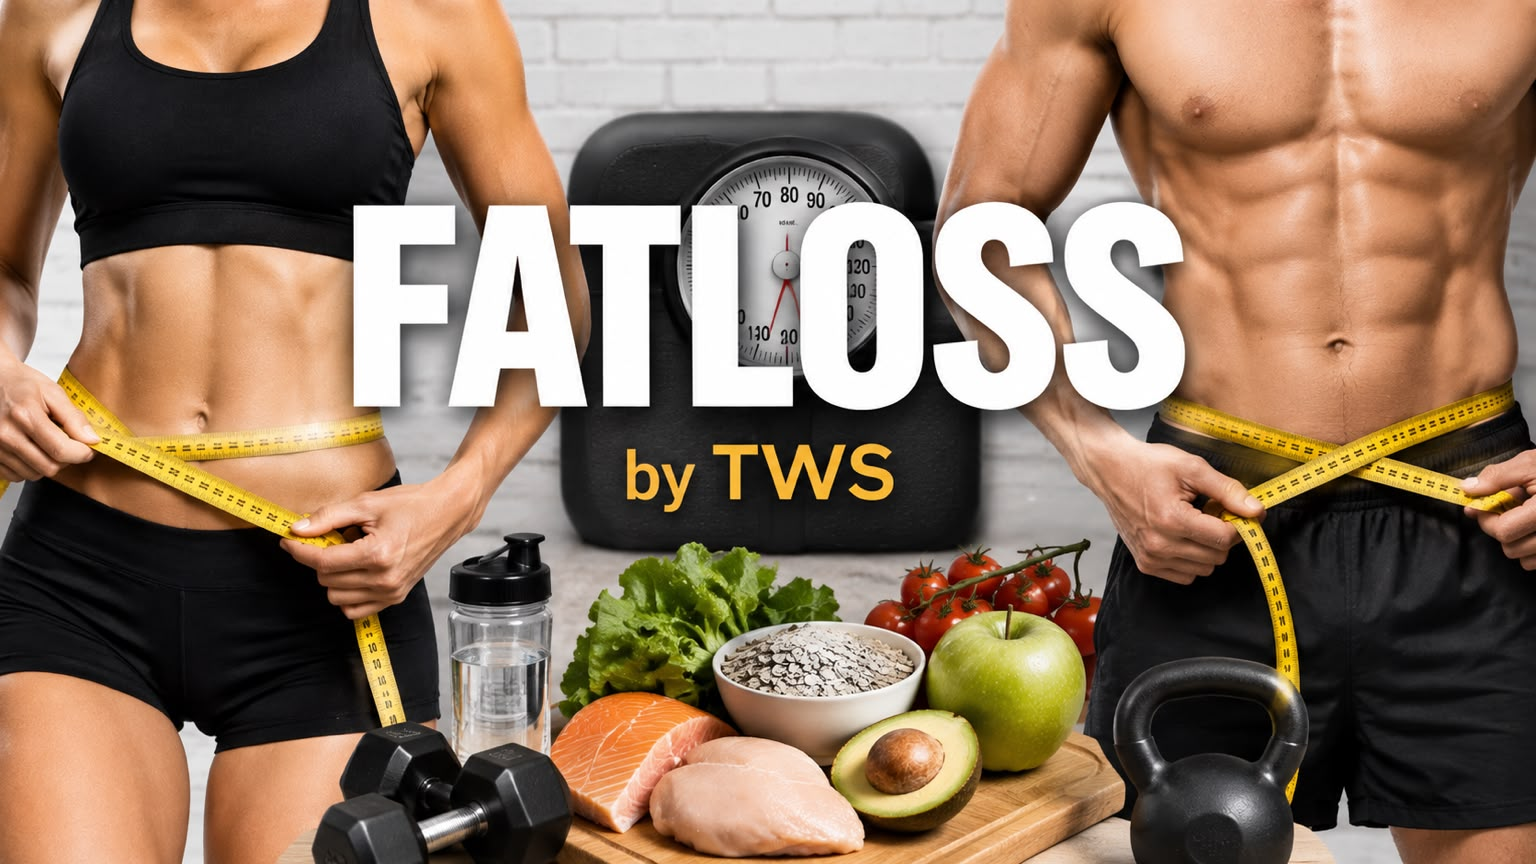
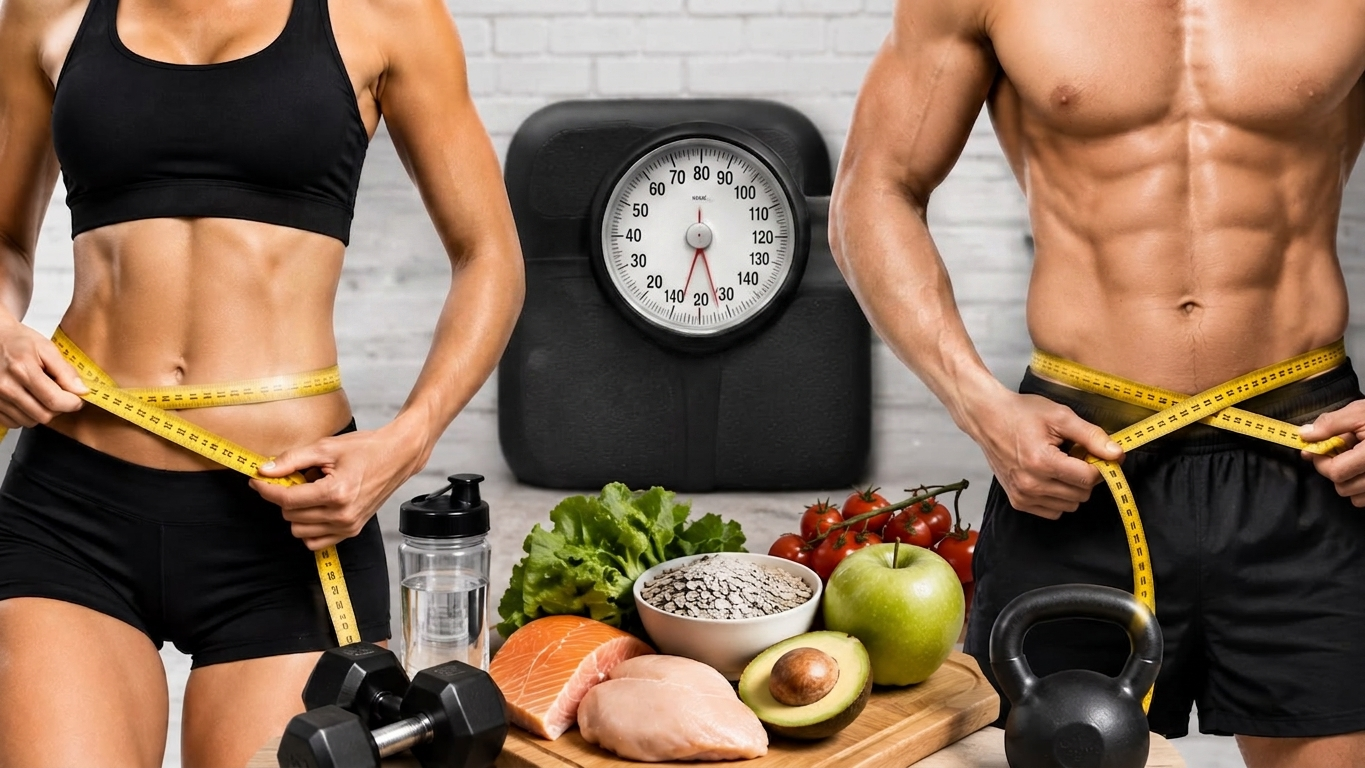
Update TWS Website Images

diff --git a/app/globals.css b/app/globals.css
@@ -6,12 +6,30 @@
 .hero-hook-line{display:block}
 .hero-hook-line-one{font-family:'Playfair Display',serif;font-weight:700;color:var(--navy);font-size:clamp(62px,6vw,90px)}
 .hero-hook-line-two{font-family:'Playfair Display',serif;font-style:italic;font-weight:600;color:#c88c20;font-size:clamp(68px,6.5vw,98px);text-shadow:1px 3px 0 rgba(19,37,59,.08)}
+.about-heading{margin-bottom:60px}.about-profiles{display:grid;grid-template-columns:repeat(2,1fr);gap:55px;max-width:980px;margin:0 auto}.about-profile{text-align:center}.about-profile img{display:block;width:min(100%,360px);aspect-ratio:1/1;object-fit:cover;border-radius:50%;margin:0 auto 28px;clip-path:circle(45% at 50% 50%)}.about-profile h3{font-family:'Playfair Display',serif;font-size:34px;color:var(--navy);margin:0 0 10px}.about-profile p{margin:0;color:var(--muted);font-size:17px;letter-spacing:.03em}.about.reveal.is-visible .about-profile{animation:reveal-up .8s cubic-bezier(.22,1,.36,1) both}.about.reveal.is-visible .about-profile:nth-child(2){animation-delay:.1s}
 .about-copy{max-width:760px}
 .about-text{margin-top:44px;max-width:720px}
 .about h2 em,.programs h2 em{font-family:'Playfair Display',serif;font-style:italic;font-weight:600;color:#c88c20;text-shadow:2px 3px 0 rgba(19,37,59,.12),0 8px 18px rgba(200,140,32,.16)}
 .about-text p{font-size:17px;line-height:1.9;color:#5c6972;margin:0 0 24px}
 .hero-actions{display:flex;align-items:center;gap:28px;margin:36px 0}.button{display:inline-block;padding:15px 24px;border-radius:30px;font-weight:700}.button-dark{background:var(--navy);color:#fff}.text-link{font-weight:700;color:var(--navy)}.hero-note{font-size:14px;color:#6b7881}.hero-note span{color:var(--teal)}.hero-dots{position:absolute;left:50%;bottom:24px;transform:translateX(-50%);display:flex;gap:8px;z-index:3}.hero-dots button{width:9px;height:9px;padding:0;border:1px solid #fff;background:rgba(255,255,255,.45);border-radius:50%;cursor:pointer;box-shadow:0 1px 4px rgba(0,0,0,.25)}.hero-dots button.active{background:#fff}.story-word{font-family:'Playfair Display',serif;font-style:italic;font-weight:600;color:#c88c20;text-shadow:2px 3px 0 rgba(19,37,59,.12),0 8px 18px rgba(200,140,32,.16);display:inline-block;transform:rotate(-2deg);padding:0 .06em}.section{padding:110px 7vw}.about{background:#fff}.section-heading h2{font-size:clamp(42px,5vw,64px)}.about-grid{display:grid;grid-template-columns:1fr 1fr;gap:80px;align-items:start}.about-grid-full .section-heading{padding-top:8px}.about-couple-image{display:block;overflow:hidden;border-radius:24px;background:#fff;border:1px solid var(--line);box-shadow:0 14px 35px #13253b14}.about-couple-image img{display:block;width:100%;height:auto;max-height:none;object-fit:contain;object-position:center}.quote{font-family:'Playfair Display';font-style:italic;font-size:26px;line-height:1.4;color:var(--navy);padding-left:25px;border-left:3px solid var(--gold)}.programs{background:var(--cream)}.centered{text-align:center;max-width:760px;margin:0 auto}.centered>p:last-child{color:var(--muted);line-height:1.7}.programs-content{display:block;margin-top:55px}.programs-image{width:90%;margin:0 auto;overflow:hidden;border-radius:30px;background:#fff;border:1px solid var(--line)}.programs-image img{display:block;width:100%;height:auto;object-fit:contain;object-position:center}.visual-break{display:grid;grid-template-columns:1fr 1fr;min-height:510px}.visual-copy{padding:85px 8vw;background:var(--navy);color:#fff}.visual-copy h2{color:#fff;font-size:55px}.visual-copy p:last-child{color:#cbd5dc;line-height:1.8;max-width:520px}.visual-placeholder{display:flex;flex-direction:column;align-items:center;justify-content:center;background:linear-gradient(135deg,#d9eee8,#f3ead0);color:var(--navy);text-align:center}.visual-placeholder span{font-weight:700;letter-spacing:.15em;font-size:13px}.visual-placeholder small{margin-top:8px;color:#64727a}.achievements{background:#fff}.achievement-grid{display:grid;grid-template-columns:repeat(3,1fr);gap:20px;margin-top:55px}.achievement-card{padding:34px;border:1px solid var(--line);border-radius:25px;min-height:250px}.achievement-card>span{font-size:12px;color:var(--gold);font-weight:700}.achievement-card h3{font-family:'Playfair Display';font-size:30px;color:var(--navy);margin:35px 0 14px}.achievement-card p{color:var(--muted);font-size:14px;line-height:1.7}.achievement-line{width:45px;height:3px;background:var(--teal);margin-top:28px}.contact{background:linear-gradient(120deg,#e8f6f1,#fff8e6);display:grid;grid-template-columns:1.05fr .95fr;gap:70px;align-items:center}.contact h2{font-size:56px}.contact-intro>p:not(.eyebrow){max-width:600px;color:var(--muted);line-height:1.8}.contact-message{margin-top:30px;max-width:650px}.contact-message p{color:var(--muted);line-height:1.8}.contact-message .quote{color:var(--navy);margin-top:24px}.contact-profiles{display:grid;gap:55px}.contact-profile{display:grid;grid-template-columns:250px 1fr 170px;gap:28px;align-items:center}.contact-profile>img{width:250px;height:250px;border-radius:50%;object-fit:cover;border:0;background:#eee;clip-path:circle(45% at 50% 50%)}.contact-profile-info h3{font-size:34px;margin:0 0 12px;color:#111;font-weight:700}.contact-profile-info p{font-size:20px;line-height:1.35;color:#111;margin:0}.social-links{display:flex;justify-content:space-between;gap:30px}.social-links a{width:92px;height:92px;display:grid;place-items:center;color:#111;transition:transform .2s,opacity .2s}.social-links a:hover{transform:translateY(-3px);opacity:.65}.social-links svg{width:88px;height:88px;fill:none;stroke:currentColor;stroke-width:1.7;stroke-linecap:round;stroke-linejoin:round}.social-links a:nth-child(2) svg{fill:none}.social-links a:nth-child(2) svg path:first-child{fill:currentColor;stroke:currentColor}.social-links a:nth-child(2) svg path:last-child{fill:var(--white);stroke:var(--white);stroke-width:.7}.footer{padding:30px 7vw;background:#0d1d2f;color:#aab7c1;display:flex;align-items:center;justify-content:space-between;gap:25px;font-size:11px}.footer-brand strong{color:#fff}
-.reveal{opacity:0;transform:translateY(32px);transition:opacity .75s ease,transform .75s cubic-bezier(.22,1,.36,1)}.reveal.is-visible{opacity:1;transform:translateY(0)}.about.reveal.is-visible .section-heading{animation:reveal-left .8s cubic-bezier(.22,1,.36,1) both}.about.reveal.is-visible .about-couple-image{animation:reveal-right .9s .08s cubic-bezier(.22,1,.36,1) both}.programs.reveal.is-visible .program-card{animation:reveal-up .7s cubic-bezier(.22,1,.36,1) both}.programs.reveal.is-visible .program-card:nth-child(2){animation-delay:.07s}.programs.reveal.is-visible .program-card:nth-child(3){animation-delay:.14s}.programs.reveal.is-visible .program-card:nth-child(4){animation-delay:.21s}.programs.reveal.is-visible .program-card:nth-child(5){animation-delay:.28s}.achievement-card,.contact-profile{transition:transform .25s ease}.achievement-card:hover,.contact-profile:hover{transform:translateY(-4px)}@keyframes reveal-up{from{opacity:0;transform:translateY(25px)}to{opacity:1;transform:translateY(0)}}@keyframes reveal-left{from{opacity:0;transform:translateX(-35px)}to{opacity:1;transform:translateX(0)}}@keyframes reveal-right{from{opacity:0;transform:translateX(35px)}to{opacity:1;transform:translateX(0)}}@media(prefers-reduced-motion:reduce){html{scroll-behavior:auto}.reveal,.reveal.is-visible,.hero-background .hero-slide{opacity:1;transform:none;transition:none}.program-card,.about .section-heading,.about .about-couple-image{animation:none!important}}
-@media(max-width:1000px){.nav{gap:14px}.programs-content{display:block}.programs-image{width:90%;height:auto}.program-grid{grid-template-columns:repeat(2,1fr)}.program-card:last-child{grid-column:span 2}.about-grid,.contact,.visual-break{grid-template-columns:1fr}.contact-profile{grid-template-columns:160px 1fr;gap:20px}.contact-profile>img{width:160px;height:160px;border:0}.social-links{grid-column:2;justify-content:flex-start}.achievement-grid{grid-template-columns:1fr 1fr}.trust-strip{grid-template-columns:1fr 1fr;gap:18px}.trust-strip div{border:0}.contact{gap:35px}.footer{flex-wrap:wrap}}
-@media(max-width:700px){.programs-image{width:90%;height:auto}.hero{min-height:calc(100svh - 75px);padding:55px 5vw;align-items:flex-start}.hero-background .hero-slide{right:0;top:auto;bottom:0;width:auto;height:54%;max-width:100%;transform:scale(.985);object-fit:contain;object-position:center bottom}.hero-background .hero-slide.active{transform:scale(1)}.hero-overlay{background:linear-gradient(180deg,rgba(251,250,245,.99) 0%,rgba(251,250,245,.94) 46%,rgba(251,250,245,.35) 72%,rgba(251,250,245,.06) 100%)}.hero-text{font-size:16px}.site-header{padding:14px 5vw}.nav{display:none}.hero{padding:55px 5vw}.hero h1{font-size:52px}.hero-hook-line-one{font-size:52px}.hero-hook-line-two{font-size:56px}.section{padding:75px 5vw}.about-grid,.achievement-grid{grid-template-columns:1fr}.contact-profile{grid-template-columns:120px 1fr}.contact-profile>img{width:120px;height:120px;border:0}.contact-profile-info h3{font-size:28px}.contact-profile-info p{font-size:16px}.social-links{grid-column:2}.social-links a{width:64px;height:64px}.social-links svg{width:60px;height:60px}.program-grid{grid-template-columns:1fr}.program-card:last-child{grid-column:auto}.person-card{grid-template-columns:55px 1fr}.visual-copy{padding:65px 5vw}.visual-copy h2,.contact h2{font-size:44px}.footer{padding:28px 5vw}}
+.reveal{opacity:0;transform:translateY(32px);transition:opacity .75s ease,transform .75s cubic-bezier(.22,1,.36,1)}.reveal.is-visible{opacity:1;transform:translateY(0)}.contact-profile{transition:transform .25s ease}.contact-profile:hover{transform:translateY(-4px)}@keyframes reveal-up{from{opacity:0;transform:translateY(25px)}to{opacity:1;transform:translateY(0)}}@keyframes reveal-left{from{opacity:0;transform:translateX(-35px)}to{opacity:1;transform:translateX(0)}}@keyframes reveal-right{from{opacity:0;transform:translateX(35px)}to{opacity:1;transform:translateX(0)}}@media(prefers-reduced-motion:reduce){html{scroll-behavior:auto}.reveal,.reveal.is-visible,.hero-background .hero-slide{opacity:1;transform:none;transition:none}.program-card,.about .section-heading,.about .about-couple-image,.about .about-profile{animation:none!important}}
+@media(max-width:1000px){.nav{gap:14px}.programs-content{display:block}.programs-image{width:90%;height:auto}.program-grid{grid-template-columns:repeat(2,1fr)}.program-card:last-child{grid-column:span 2}.about-grid,.contact{grid-template-columns:1fr}.contact-profile{grid-template-columns:160px 1fr;gap:20px}.contact-profile>img{width:160px;height:160px;border:0}.social-links{grid-column:2;justify-content:flex-start}.trust-strip{grid-template-columns:1fr 1fr;gap:18px}.trust-strip div{border:0}.contact{gap:35px}.footer{flex-wrap:wrap}}
+@media(max-width:700px){.programs-image{width:90%;height:auto}.hero{min-height:calc(100svh - 75px);padding:55px 5vw;align-items:flex-start}.hero-background .hero-slide{right:0;top:auto;bottom:0;width:auto;height:54%;max-width:100%;transform:scale(.985);object-fit:contain;object-position:center bottom}.hero-background .hero-slide.active{transform:scale(1)}.hero-overlay{background:linear-gradient(180deg,rgba(251,250,245,.99) 0%,rgba(251,250,245,.94) 46%,rgba(251,250,245,.35) 72%,rgba(251,250,245,.06) 100%)}.hero-text{font-size:16px}.site-header{padding:14px 5vw}.nav{display:none}.hero{padding:55px 5vw}.hero h1{font-size:52px}.hero-hook-line-one{font-size:52px}.hero-hook-line-two{font-size:56px}.section{padding:75px 5vw}.about-grid{grid-template-columns:1fr}.about-profiles{grid-template-columns:1fr}.contact-profile{grid-template-columns:120px 1fr}.contact-profile>img{width:120px;height:120px;border:0}.contact-profile-info h3{font-size:28px}.contact-profile-info p{font-size:16px}.social-links{grid-column:2}.social-links a{width:64px;height:64px}.social-links svg{width:60px;height:60px}.program-grid{grid-template-columns:1fr}.program-card:last-child{grid-column:auto}.person-card{grid-template-columns:55px 1fr}.visual-copy{padding:65px 5vw}.visual-copy h2,.contact h2{font-size:44px}.footer{padding:28px 5vw}}
 .visual-placeholder img{display:block;width:100%;height:100%;object-fit:cover}
+
+/* Latest requested About Us / What We Offer layout */
+.about-layout{display:grid;grid-template-columns:minmax(0,1.05fr) minmax(0,.95fr);gap:80px;align-items:center;max-width:1200px;margin:0 auto}
+.about-image-wrap{overflow:hidden;border-radius:28px;background:#fff}
+.about-image-wrap img{display:block;width:100%;height:auto;object-fit:cover}
+.about-details .about-heading{margin:0 0 48px}
+.about-details .section-heading h2{margin-bottom:0}
+.about-details .about-profiles{display:grid;grid-template-columns:1fr;gap:30px;max-width:none;margin:0}
+.about-details .about-profile{text-align:left;padding-left:24px;border-left:3px solid var(--gold)}
+.about-details .about-profile h3{font-family:'Playfair Display',serif;font-size:32px;color:var(--navy);margin:0 0 8px}
+.about-details .about-profile p{margin:0;color:var(--muted);font-size:17px;letter-spacing:.03em}
+.programs-gallery{width:90%;max-width:1536px;margin:55px auto 0;display:flex;flex-direction:column;gap:34px}
+.program-gallery-item{display:block;width:100%;overflow:hidden;border-radius:0;background:#fff}
+.program-gallery-item img{display:block;width:100%;aspect-ratio:16/9;height:auto;object-fit:cover;object-position:center}
+.program-gallery-item span{display:block;padding:0 0 14px;font-weight:700;color:var(--navy);font-size:18px}
+@media(max-width:1000px){.about-layout{grid-template-columns:1fr;gap:50px}.about-details .about-heading{text-align:center}.about-details .about-profiles{grid-template-columns:repeat(2,1fr)}.about-details .about-profile{text-align:center;padding:0;border-left:0}.programs-gallery{width:90%}}
+@media(max-width:700px){.about-details .about-profiles{grid-template-columns:1fr}.programs-gallery{width:90%;gap:25px}.program-gallery-item{border-radius:0}.program-gallery-item span{font-size:15px}}

diff --git a/app/page.tsx b/app/page.tsx
@@ -2,24 +2,6 @@
 
 import { useEffect } from "react";
 
-const programs = [
-  { icon: "◒", title: "Fat Loss", text: "Practical guidance for sustainable body-composition and lifestyle goals." },
-  { icon: "✦", title: "Health Care", text: "Everyday wellness support built around your personal needs and routines." },
-  { icon: "♡", title: "Skin Care", text: "Simple, consistent approaches to supporting healthier-looking skin." },
-  { icon: "✧", title: "Facial Care", text: "Personalized care habits designed to fit your lifestyle and preferences." },
-  { icon: "⌁", title: "Nutrition Consultation", text: "Understand your nutrition choices and build habits you can actually maintain." },
-];
-
-const heroImages = [
-  { src: "/images/personal-care.jpeg", alt: "Personal Care by TWS" },
-];
-
-const achievementCards = [
-  { title: "A New Chapter", text: "A client story placeholder — from feeling stuck to building a healthier daily routine with consistent guidance." },
-  { title: "Progress That Lasts", text: "A client story placeholder — sustainable progress through realistic goals, accountability, and small changes." },
-  { title: "Confidence From Within", text: "A client story placeholder — improving wellness habits while feeling more confident and energized." },
-];
-
 export default function Home() {
   useEffect(() => {
     const observer = new IntersectionObserver(
@@ -34,15 +16,13 @@ export default function Home() {
     const animatedSections = document.querySelectorAll(".reveal");
     animatedSections.forEach((element) => observer.observe(element));
 
-    return () => {
-      observer.disconnect();
-    };
+    return () => observer.disconnect();
   }, []);
 
   return (
     <main>
       <header className="site-header">
-        <a href="#home" className="brand" aria-label="TWS home">
+        <a href="#about" className="brand" aria-label="TWS About Us">
           <img className="brand-logo" src="/images/tws-logo.png" alt="TWS Together We Success logo" />
           <div>
             <strong>TWS</strong>
@@ -50,61 +30,32 @@ export default function Home() {
           </div>
         </a>
         <nav className="nav" aria-label="Main navigation">
-          <a href="#home">Home</a>
           <a href="#about">About Us</a>
           <a href="#programs">Programs</a>
-          <a href="#achievements">Clients Achievements</a>
           <a href="#contact" className="nav-cta">Contact</a>
         </nav>
       </header>
 
-      <section id="home" className="hero">
-        <div className="hero-background" aria-hidden="true">
-          <img
-            src={heroImages[0].src}
-            alt=""
-            className="hero-slide active"
-          />
-          <div className="hero-overlay" />
-        </div>
-        <div className="hero-copy reveal is-visible">
-          <p className="eyebrow">TWS-CERTIFIED HEALTH CONSULTANTS</p>
-          <h1>
-            <span className="hero-hook-line hero-hook-line-one">Healthier habits.</span>
-            <span className="hero-hook-line hero-hook-line-two">Stronger you.</span>
-          </h1>
-          <p className="hero-text">
-            Personalized wellness guidance from Imelda & Kenneth — helping people from different backgrounds, ages, lifestyles, and goals move toward a healthier version of themselves.
-          </p>
-          <div className="hero-actions">
-            <a className="button button-dark" href="#programs">Explore Programs</a>
-            <a className="text-link" href="#about">Meet Imelda & Kenneth →</a>
+      <section id="about" className="about section reveal is-visible">
+        <div className="about-layout">
+          <div className="about-image-wrap">
+            <img src="/images/biography.jpeg" alt="Kenneth Anderson and Imelda Febriantys" />
           </div>
-          <div className="hero-note">
-            <span>●</span> Your goals. Your pace. Your journey.
-          </div>
-        </div>
-      </section>
-
-      <section id="about" className="about section reveal">
-        <div className="about-grid about-grid-full">
-          <div className="section-heading about-copy">
-            <p className="eyebrow">ABOUT US</p>
-            <h2>Two consultants.<br /><em>One shared mission.</em></h2>
-            <div className="about-text">
-              <p>
-                Imelda and Kenneth are TWS-certified health consultants dedicated to helping people make healthier choices in a way that feels realistic, personal, and sustainable.
-              </p>
-              <p>
-                Their clients come from different backgrounds, age groups, lifestyles, and professional environments. Whether the goal is fat loss, better nutrition, personal care, skin care, or simply building healthier daily habits, their approach starts with understanding the individual.
-              </p>
-              <p>
-                Rather than promising overnight results, they focus on practical guidance, consistent support, and habits that can become part of everyday life. The goal is not just to look better, but to feel better and build confidence along the way.
-              </p>
+          <div className="about-details">
+            <div className="section-heading about-heading">
+              <p className="eyebrow">ABOUT US</p>
+              <h2>Two consultants.<br /><em>One shared mission.</em></h2>
             </div>
-          </div>
-          <div className="about-couple-image">
-            <img src="/images/imelda-kenneth.png" alt="Imelda and Kenneth together" />
+            <div className="about-profiles">
+              <article className="about-profile">
+                <h3>Kenneth Anderson</h3>
+                <p>TWS Certified Consultant</p>
+              </article>
+              <article className="about-profile">
+                <h3>Imelda Febriantys</h3>
+                <p>TWS Certified Consultant</p>
+              </article>
+            </div>
           </div>
         </div>
       </section>
@@ -115,41 +66,23 @@ export default function Home() {
           <h2>Programs built around <em>you.</em></h2>
           <p>Choose a starting point, then let&apos;s shape the journey around your goals and lifestyle.</p>
         </div>
-        <div className="programs-content">
-          <a className="programs-image" href="#contact" aria-label="Start your TWS wellness journey">
-            <img src="/images/what-we-offer-bg.jpeg" alt="TWS health and wellness programs" />
+        <div className="programs-gallery">
+          <a className="program-gallery-item" href="#contact" aria-label="Start your TWS Fat Loss journey">
+            <span>Fat Loss</span>
+            <img src="/images/fat-loss.jpeg" alt="TWS Fat Loss" />
+          </a>
+          <a className="program-gallery-item" href="#contact" aria-label="Start your TWS Personal Care journey">
+            <span>Personal Care</span>
+            <img src="/images/personal-care-offer.png" alt="TWS Personal Care" />
+          </a>
+          <a className="program-gallery-item" href="#contact" aria-label="Start your TWS Healthcare journey">
+            <span>Healthcare</span>
+            <img src="/images/healthcare-offer.png" alt="TWS Healthcare" />
           </a>
         </div>
       </section>
 
-      <section className="visual-break reveal">
-        <div className="visual-copy">
-          <p className="eyebrow">NUTRITION &amp; HEALTH SUPPLEMENTS</p>
-          <h2>Wellness is more than a number on a scale.</h2>
-          <p>Support your everyday wellbeing with thoughtful nutrition guidance and health supplements designed to complement your lifestyle, routines, and personal goals.</p>
-        </div>
-        <div className="visual-placeholder"><img src="/images/nutrition-health.jpeg" alt="Nutrition and health supplements by TWS" /></div>
-      </section>
-
-      <section id="achievements" className="achievements section reveal">
-        <div className="section-heading centered">
-          <p className="eyebrow">CLIENTS ACHIEVEMENTS</p>
-          <h2>Every journey has a <span className="story-word">story.</span></h2>
-          <p>Placeholder stories for now — this section can later showcase real client transformations, testimonials, and milestones.</p>
-        </div>
-        <div className="achievement-grid">
-          {achievementCards.map((card, index) => (
-            <article className="achievement-card" key={card.title}>
-              <span>0{index + 1}</span>
-              <h3>{card.title}</h3>
-              <p>{card.text}</p>
-              <div className="achievement-line" />
-            </article>
-          ))}
-        </div>
-      </section>
-
-      <section id="contact" className="contact section reveal">
+<section id="contact" className="contact section reveal">
         <div className="contact-intro">
           <p className="eyebrow">START YOUR JOURNEY</p>
           <h2>Let&apos;s talk about <em>your goal.</em></h2>
